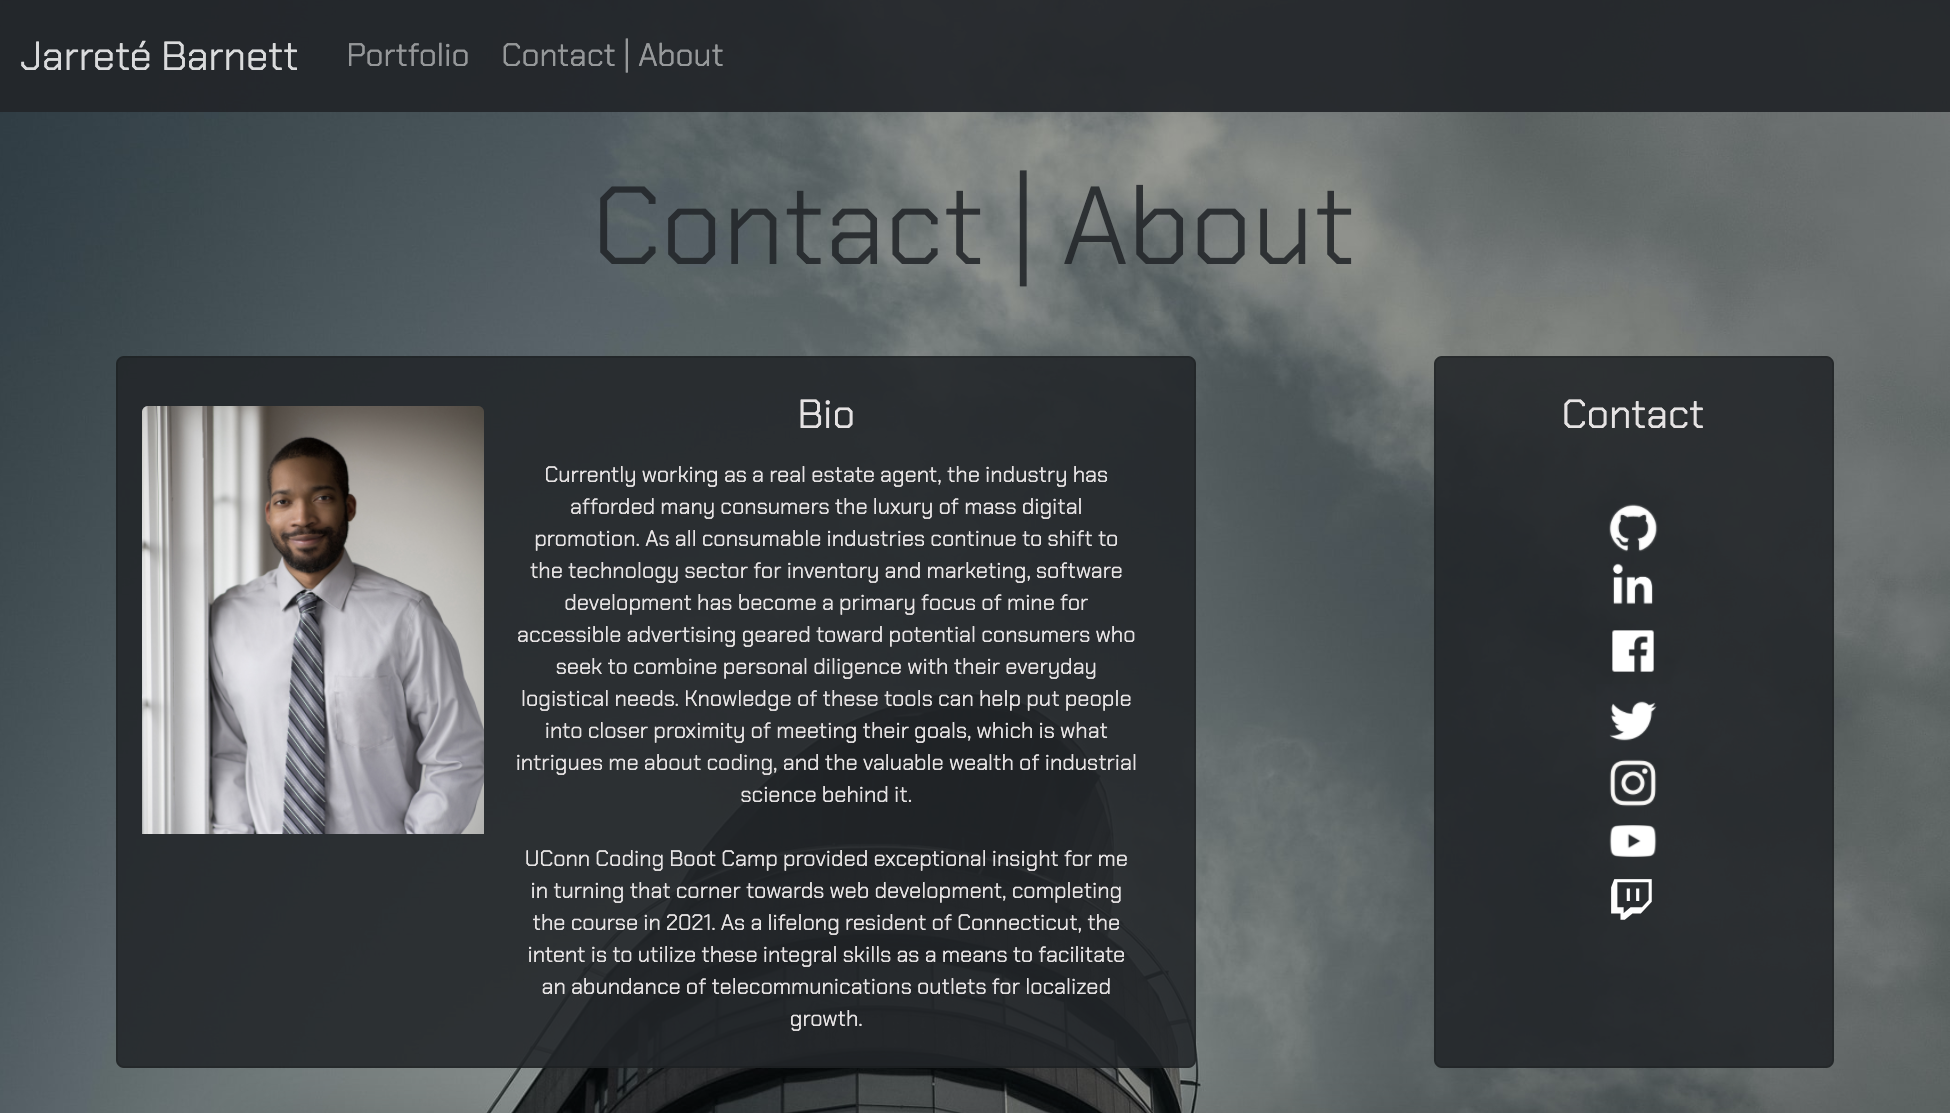
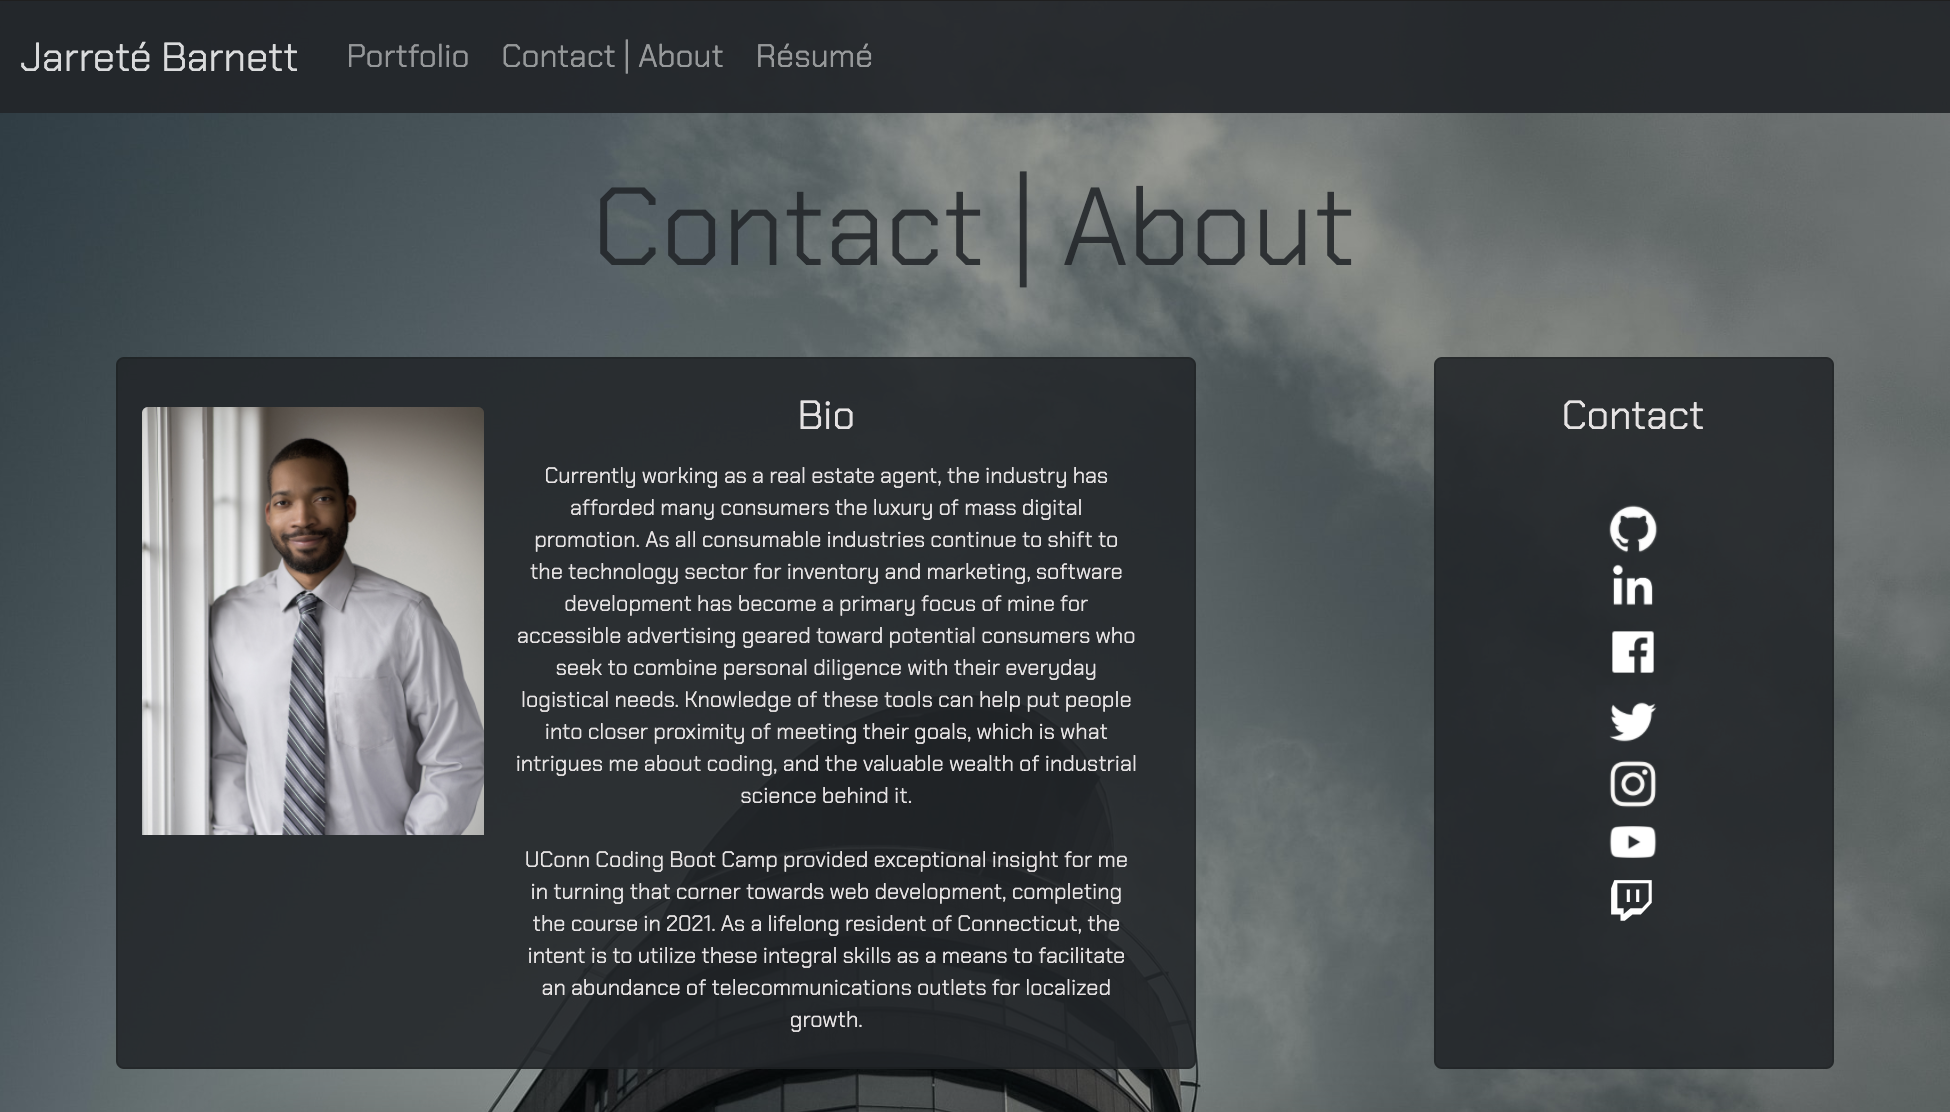
Updated README and added a Resume card to the index home page

diff --git a/index.html b/index.html
@@ -60,6 +60,19 @@
           </div>
         </div>
       </div>
+      <br>
+      <div class="row">
+        <div class="col-4">
+          <div class="card" style="width: 18rem;">
+            <img src="./assets/Images/resumecloseup.png" class="card-img-top" alt="Résumé">
+            <div class="card-body">
+              <a href="./assets/documents/Resume.pdf" class="btn btn-dark"><img src="./assets/Images/eyeicon.png" style="max-width: 11px;"></img> Résumé</a>
+              <br>
+              <p class="card-text">View an updated résumé of work experience.</p>
+            </div>
+          </div>
+        </div>
+      </div>
     </div>
   </body>
   <br>

diff --git a/README.md b/README.md
@@ -32,3 +32,5 @@ Provided below is a still display of the pages most recent aesthetic.
 ![portfolio](assets/Images/portfolioscreenshot.png)
 
 ![contact](assets/Images/contactscreenshot.png)
+
+![resume](assets/Images/resumescreenshot.png)
